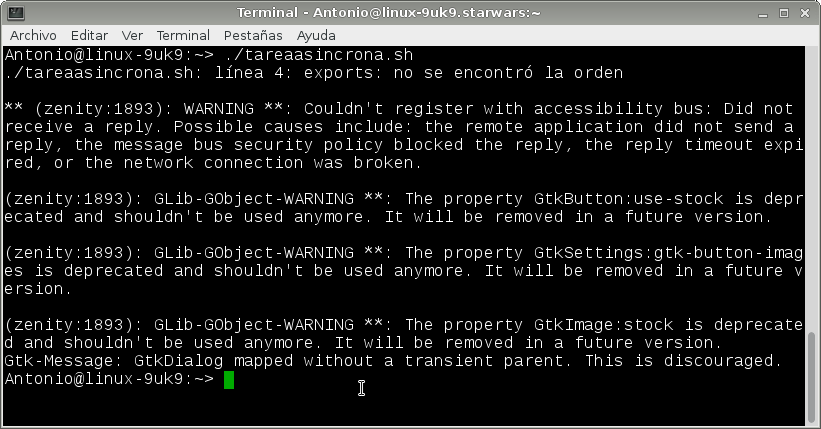
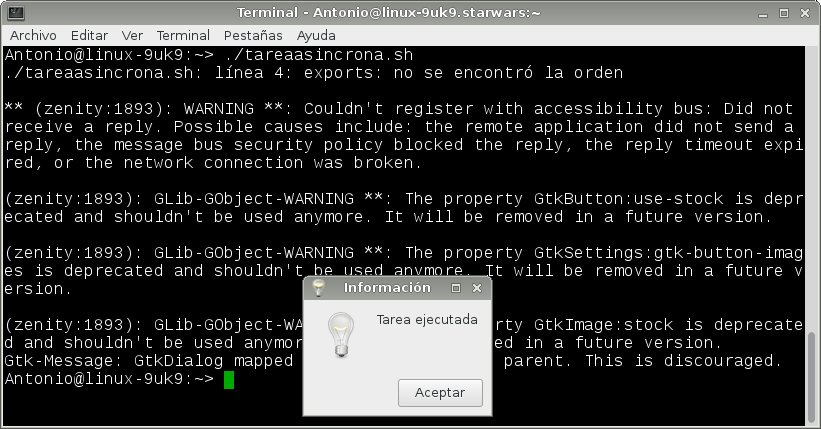
release 1.2

Changed region(s): [[0.3654, 0.6364, 0.609, 0.9697]]

diff --git a/2º Trimestre/Unidad 1.- Automatización de Tareas/A1.- Tareas Programadas/README.md b/2º Trimestre/Unidad 1.- Automatización de Tareas/A1.- Tareas Programadas/README.md
@@ -160,8 +160,6 @@ Para esta tarea prentendemos hacer uso de la herramienta `zenity`, la cual nos p
 
 ![](files/suse/zen2.png)
 
-![](files/suse/zen3.png)
-
 ![](files/suse/as00.png)
 
 
